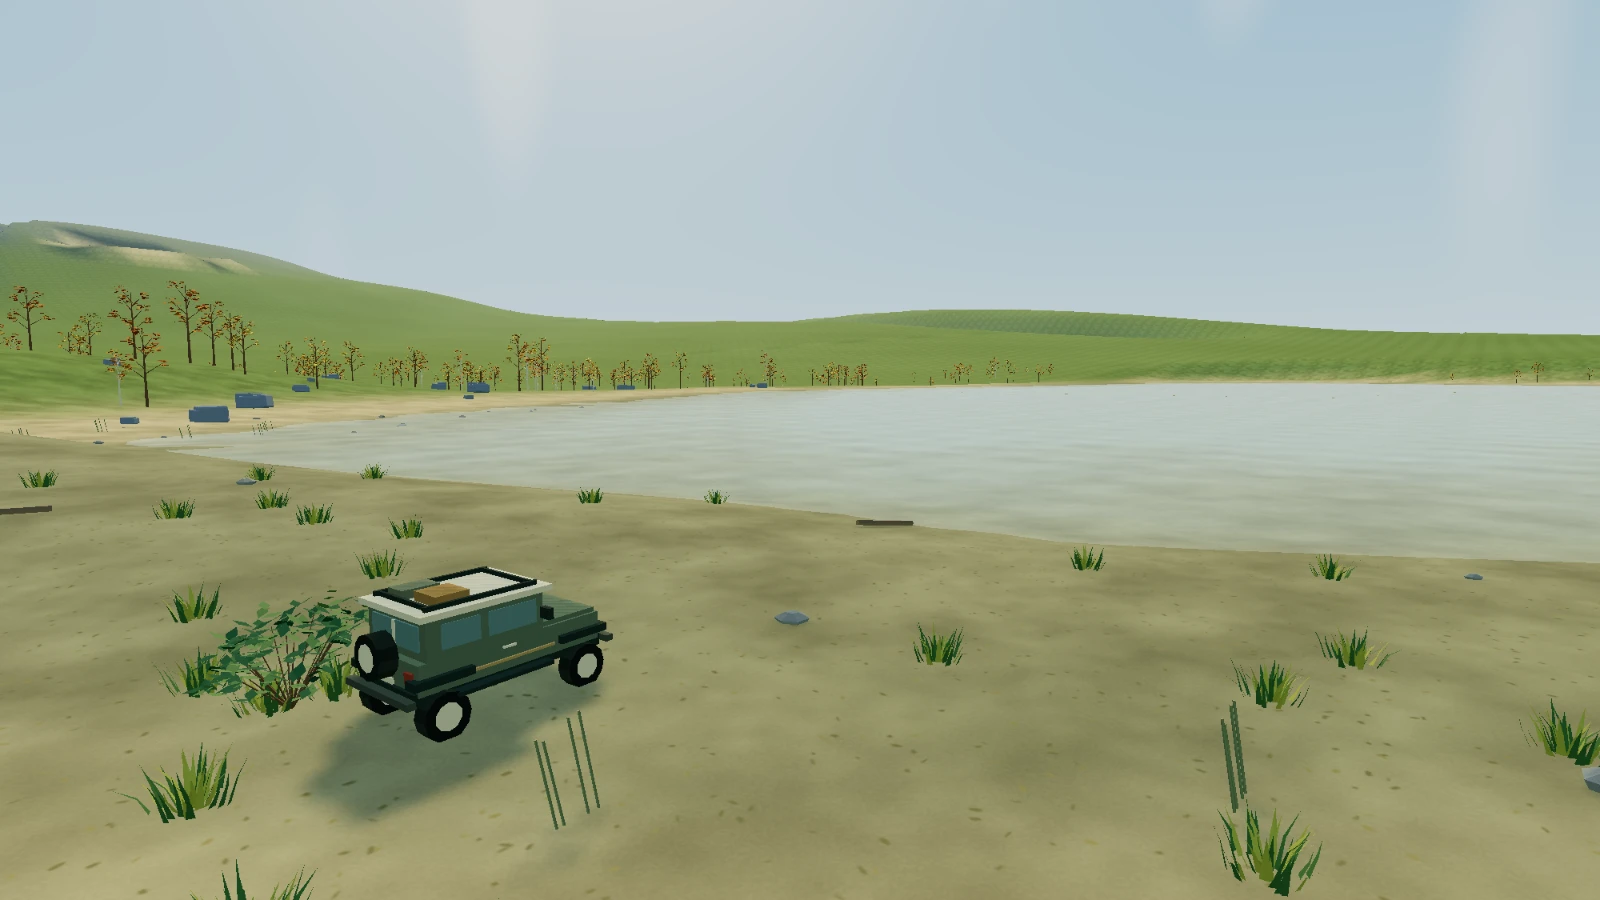
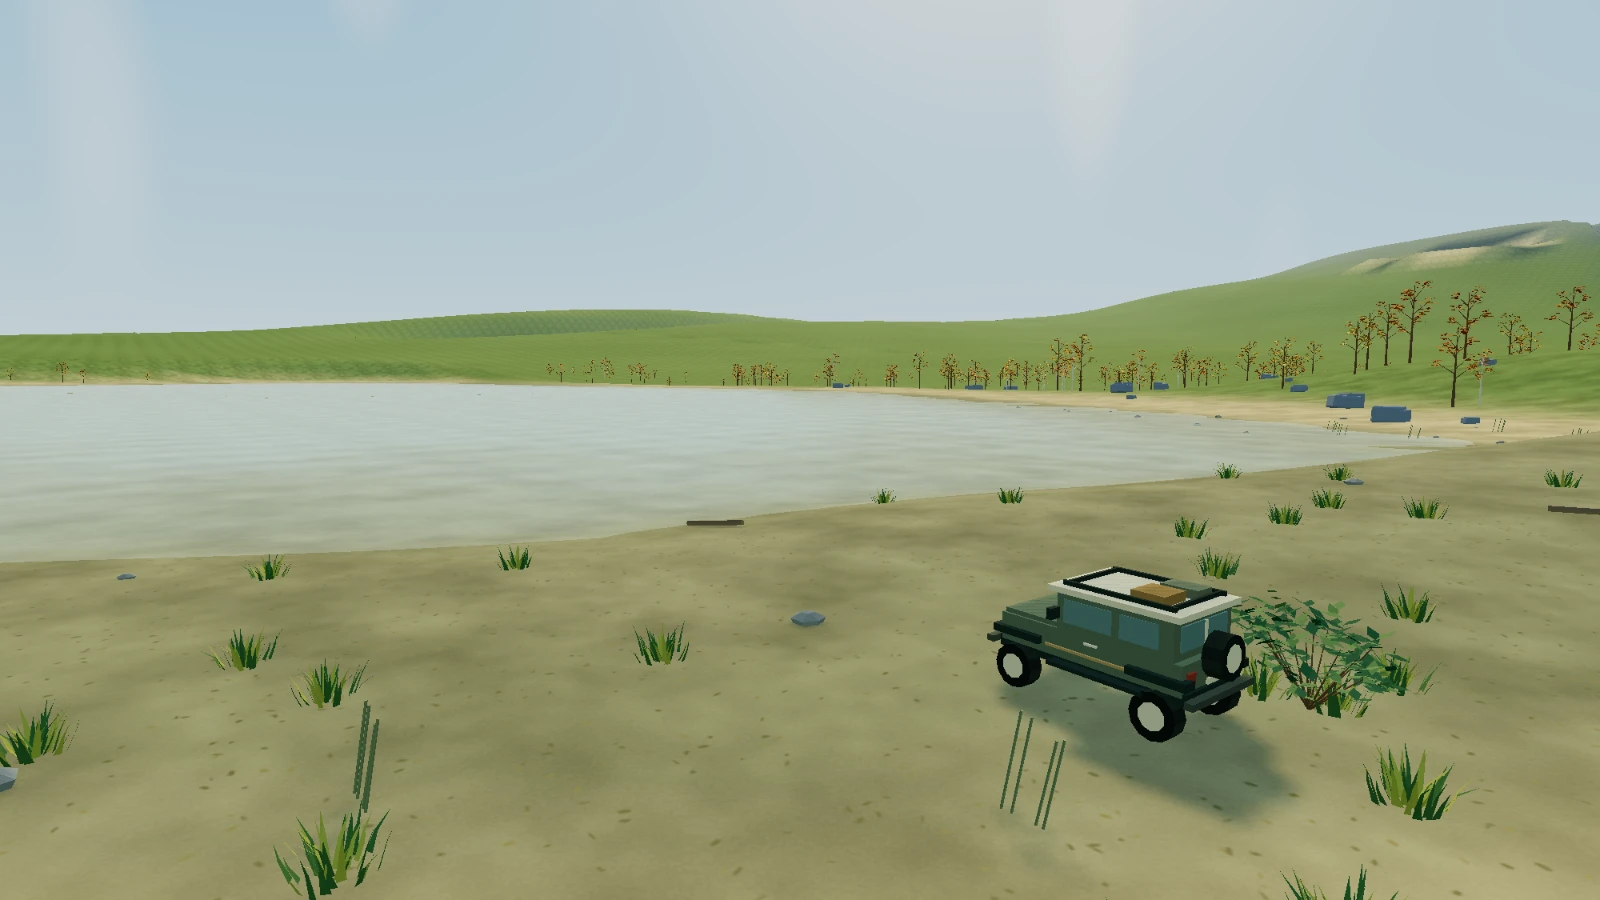
Align rendered steering coordinates and refine close terrain contact

diff --git a/over-the-hill/renderer.js b/over-the-hill/renderer.js
@@ -6,7 +6,7 @@ const {THREE:T,GLTFLoader}=window.HillEngine;let gl;
 try{gl=new T.WebGLRenderer({canvas,antialias:false,alpha:false,powerPreference:'high-performance'});}catch{return null;}
 const context=gl.getContext(),gpuInfo=context.getExtension('WEBGL_debug_renderer_info'),gpuName=gpuInfo?context.getParameter(gpuInfo.UNMASKED_RENDERER_WEBGL):'';const software=/swiftshader|llvmpipe|softpipe/i.test(gpuName);
 gl.outputColorSpace=T.SRGBColorSpace;gl.toneMapping=T.ACESFilmicToneMapping;gl.toneMappingExposure=1.05;gl.shadowMap.enabled=!software;gl.shadowMap.type=T.PCFSoftShadowMap;gl.shadowMap.autoUpdate=false;
-const scene=new T.Scene(),camera=new T.PerspectiveCamera(60,1,.25,12000);scene.fog=new T.FogExp2('#c6d4d0',.00019);
+const scene=new T.Scene();scene.scale.x=-1;const camera=new T.PerspectiveCamera(60,1,.25,12000);scene.fog=new T.FogExp2('#c6d4d0',.00019);
 const hemi=new T.HemisphereLight('#c7e3f3','#82936b',1.8);scene.add(hemi,new T.AmbientLight('#c9d9dc',.5));
 const sun=new T.DirectionalLight('#ffe0a5',2.3);sun.castShadow=true;sun.shadow.mapSize.set(1024,1024);Object.assign(sun.shadow.camera,{left:-75,right:75,top:75,bottom:-75,near:1,far:500});sun.shadow.bias=-.00015;sun.shadow.normalBias=.12;sun.shadow.radius=2;scene.add(sun,sun.target);
 const solid=new T.MeshStandardMaterial({vertexColors:true,roughness:.91,metalness:0,side:T.DoubleSide});
@@ -15,7 +15,7 @@ const terrainMaterial=new T.MeshStandardMaterial({vertexColors:true,roughness:1,
 function groundTexture(){const c=document.createElement('canvas');c.width=c.height=512;const ctx=c.getContext('2d'),image=ctx.createImageData(512,512);const hash=(x,z)=>{const q=Math.sin(x*127.1+z*311.7)*43758.5453;return q-Math.floor(q);};const noise=(x,z,period=8)=>{const hashWrapped=(a,b)=>hash((a+period)%period,(b+period)%period);const a=Math.floor(x),b=Math.floor(z),u=x-a,v=z-b,s=u*u*(3-2*u),t=v*v*(3-2*v);return (hashWrapped(a,b)*(1-s)+hashWrapped(a+1,b)*s)*(1-t)+(hashWrapped(a,b+1)*(1-s)+hashWrapped(a+1,b+1)*s)*t;};for(let y=0;y<512;y++)for(let x=0;x<512;x++){const shade=185+noise(x/64,y/64)*44+noise(x/16,y/16,32)*18+hash(x,y)*12,i=(y*512+x)*4;image.data[i]=image.data[i+1]=image.data[i+2]=shade;image.data[i+3]=255;}ctx.putImageData(image,0,0);for(let i=0;i<520;i++){const x=hash(i,1)*512,y=hash(i,2)*512;ctx.fillStyle=i%3?'#b6b8a1':'#ded7b5';ctx.beginPath();ctx.ellipse(x,y,1+hash(i,3)*2,.5+hash(i,4),hash(i,5)*6.28,0,6.28);ctx.fill();}const texture=new T.CanvasTexture(c);texture.wrapS=texture.wrapT=T.RepeatWrapping;texture.colorSpace=T.SRGBColorSpace;texture.anisotropy=Math.min(4,gl.capabilities.getMaxAnisotropy());return texture;}terrainMaterial.map=groundTexture();
 const modelMaterial=new T.MeshStandardMaterial({vertexColors:true,roughness:.94,side:T.DoubleSide});
 const wind={value:0};modelMaterial.onBeforeCompile=shader=>{shader.uniforms.uWindTime=wind;shader.vertexShader='uniform float uWindTime;attribute float windWeight;\n'+shader.vertexShader;shader.vertexShader=shader.vertexShader.replace('#include <color_vertex>',T.ShaderChunk.color_vertex.replace('vColor.xyz *= instanceColor.xyz;','vColor.xyz *= mix(vec3(1.0),instanceColor.xyz,windWeight);'));shader.vertexShader=shader.vertexShader.replace('#include <begin_vertex>','#include <begin_vertex>\n#ifdef USE_INSTANCING\ntransformed.x+=sin(uWindTime*.8+instanceMatrix[3].x*.21+instanceMatrix[3].z*.13+position.y)*windWeight*.055;\n#endif');};
-const waterMaterial=new T.ShaderMaterial({transparent:true,depthWrite:false,side:T.DoubleSide,uniforms:{time:{value:0}},vertexShader:`attribute float waterDepth;varying vec3 wp;varying float depth;uniform float time;void main(){wp=position;depth=waterDepth;wp.y+=sin(position.x*.15+position.z*.22+time*.7)*.012;gl_Position=projectionMatrix*modelViewMatrix*vec4(wp,1.0);}`,fragmentShader:`precision highp float;uniform float time;varying vec3 wp;varying float depth;void main(){vec3 view=normalize(cameraPosition-wp);vec3 normal=normalize(vec3(sin(wp.x*.7+time*.55)*.035,1.0,cos(wp.z*.8-time*.45)*.035));float fresnel=pow(1.0-max(0.0,dot(view,normal)),4.0);float glint=pow(max(0.0,dot(reflect(-view,normal),normalize(vec3(-.45,.65,.6)))),90.0);vec3 col=mix(vec3(.13,.36,.34),vec3(.27,.54,.51),exp(-depth*.6));col=mix(col,vec3(.55,.73,.82),.18+fresnel*.65);float ripple=sin(wp.x*.35+sin(wp.z*.24)+time*.6)*sin(wp.z*.42-time*.4);col+=glint*.8+max(0.0,ripple-.65)*.08;float shore=(1.0-smoothstep(.01,.16,depth))*(.6+.4*sin(wp.x*2.0+wp.z*1.3-time));col=mix(col,vec3(.79,.85,.73),shore*.5);gl_FragColor=vec4(col,clamp(.22+depth*.25+fresnel*.25,.22,.79));\n#include <tonemapping_fragment>\n#include <colorspace_fragment>\n}`});
+const waterMaterial=new T.ShaderMaterial({transparent:true,depthWrite:false,side:T.DoubleSide,uniforms:{time:{value:0}},vertexShader:`attribute float waterDepth;varying vec3 wp;varying float depth;uniform float time;void main(){vec3 p=position;depth=waterDepth;p.y+=sin(position.x*.15+position.z*.22+time*.7)*.012;wp=(modelMatrix*vec4(p,1.0)).xyz;gl_Position=projectionMatrix*viewMatrix*vec4(wp,1.0);}`,fragmentShader:`precision highp float;uniform float time;varying vec3 wp;varying float depth;void main(){vec3 view=normalize(cameraPosition-wp);vec3 normal=normalize(vec3(sin(wp.x*.7+time*.55)*.035,1.0,cos(wp.z*.8-time*.45)*.035));float fresnel=pow(1.0-max(0.0,dot(view,normal)),4.0);float glint=pow(max(0.0,dot(reflect(-view,normal),normalize(vec3(-.45,.65,.6)))),90.0);vec3 col=mix(vec3(.13,.36,.34),vec3(.27,.54,.51),exp(-depth*.6));col=mix(col,vec3(.55,.73,.82),.18+fresnel*.65);float ripple=sin(wp.x*.35+sin(wp.z*.24)+time*.6)*sin(wp.z*.42-time*.4);col+=glint*.8+max(0.0,ripple-.65)*.08;float shore=(1.0-smoothstep(.01,.16,depth))*(.6+.4*sin(wp.x*2.0+wp.z*1.3-time));col=mix(col,vec3(.79,.85,.73),shore*.5);gl_FragColor=vec4(col,clamp(.22+depth*.25+fresnel*.25,.22,.79));\n#include <tonemapping_fragment>\n#include <colorspace_fragment>\n}`});
 const sky=new T.Mesh(new T.SphereGeometry(8500,24,12),new T.ShaderMaterial({side:T.BackSide,depthWrite:false,uniforms:{time:{value:0}},vertexShader:'varying vec3 direction;void main(){direction=position;gl_Position=projectionMatrix*modelViewMatrix*vec4(position,1.0);}',fragmentShader:`varying vec3 direction;uniform float time;void main(){vec3 d=normalize(direction);float h=max(0.0,d.y);vec3 c=mix(vec3(.53,.65,.66),vec3(.10,.32,.57),pow(h,.45));vec3 sd=normalize(vec3(-.45,.65,.6));float glow=pow(max(0.0,dot(d,sd)),14.0),disc=smoothstep(.9996,.99985,dot(d,sd));c+=vec3(.5,.35,.12)*glow+vec3(2.5,2.1,1.5)*disc;float n=sin(d.x*14.0+d.z*7.0)*sin(d.z*19.0-d.x*5.0)+sin(d.x*32.0+d.z*21.0)*.3;float cloud=smoothstep(.5,1.1,n)*smoothstep(.03,.2,h)*.19;c=mix(c,vec3(.92,.91,.82),cloud);gl_FragColor=vec4(c,1.0);\n#include <tonemapping_fragment>\n#include <colorspace_fragment>\n}`}));sky.renderOrder=-10;sky.frustumCulled=false;scene.add(sky);
 const colorCache=new Map(),modelGeometries=new Map(),batches=new Map(),normalCache=new Map();let worldRef=null,dynamic=[],lastLight=null,frame=0,ready=false,loadError=null;
 function rgb(hex){if(!colorCache.has(hex))colorCache.set(hex,new T.Color(hex));return colorCache.get(hex);}
@@ -27,10 +27,11 @@ api.loaded=new Promise(resolve=>new GLTFLoader().load('nature.glb',gltf=>{for(co
 function addGroup(g){const objects=[],faces=g.faces||[];if(faces.length){const geo=geometry(faces),isGround=faces[0]?.terrain===1,mesh=new T.Mesh(geo,g.water?waterMaterial:isGround?terrainMaterial:solid);mesh.receiveShadow=!g.water;mesh.castShadow=!g.distant&&!g.water&&!isGround;mesh.renderOrder=g.water?3:0;mesh.userData.ownedGeometry=true;objects.push(mesh);scene.add(mesh);}
  const byModel=new Map();for(const item of g.instances||[]){if(!byModel.has(item.model))byModel.set(item.model,[]);byModel.get(item.model).push(item);}const dummy=new T.Object3D();for(const [name,list]of byModel){const geo=modelGeometries.get(name);if(!geo)continue;const mesh=new T.InstancedMesh(geo,modelMaterial,list.length);list.forEach((item,i)=>{dummy.position.set(...item.position);dummy.rotation.set(0,item.rotation||0,0);const scale=item.scale||[1,1,1];dummy.scale.set(...scale);dummy.updateMatrix();mesh.setMatrixAt(i,dummy.matrix);if(item.tint)mesh.setColorAt(i,new T.Color(item.tint));});mesh.instanceMatrix.needsUpdate=true;mesh.computeBoundingSphere();mesh.castShadow=!g.detail&&!g.distant;mesh.receiveShadow=true;mesh.userData.model=name;if(g.detail){mesh.userData.items=list;mesh.userData.detailPosition=null;}objects.push(mesh);scene.add(mesh);}batches.set(g,objects);}
 function sync(groups){const keep=new Set(groups);for(const [g,objects]of batches)if(!keep.has(g)){for(const o of objects){scene.remove(o);if(o.userData.ownedGeometry)o.geometry.dispose();if(o.isInstancedMesh)o.dispose();}batches.delete(g);}for(const g of groups)if(!batches.has(g))addGroup(g);worldRef=groups;}
-api.draw=function(groups,eye,yaw,pitch,width,height,dpr,range,actors=[]){if(!ready)return false;frame++;const pixel=Math.min(dpr,software?.65:1.35);if(gl.getPixelRatio()!==pixel||canvas.width!==Math.floor(width*pixel)||canvas.height!==Math.floor(height*pixel)){gl.setPixelRatio(pixel);gl.setSize(width,height,false);}if(worldRef!==groups)sync(groups);camera.aspect=width/height;camera.fov=T.MathUtils.radToDeg(2*Math.atan(height/(2*Math.min(width,height)*.92)));camera.updateProjectionMatrix();camera.position.set(eye.x,eye.y,eye.z);camera.lookAt(eye.x+Math.sin(yaw)*Math.cos(pitch),eye.y+Math.sin(pitch),eye.z+Math.cos(yaw)*Math.cos(pitch));sky.position.copy(camera.position);wind.value=waterMaterial.uniforms.time.value=performance.now()*.001;
+api.draw=function(groups,eye,yaw,pitch,width,height,dpr,range,actors=[]){if(!ready)return false;frame++;const pixel=Math.min(dpr,software?.65:1.35);if(gl.getPixelRatio()!==pixel||canvas.width!==Math.floor(width*pixel)||canvas.height!==Math.floor(height*pixel)){gl.setPixelRatio(pixel);gl.setSize(width,height,false);}if(worldRef!==groups)sync(groups);camera.aspect=width/height;camera.fov=T.MathUtils.radToDeg(2*Math.atan(height/(2*Math.min(width,height)*.92)));camera.updateProjectionMatrix();camera.position.set(-eye.x,eye.y,eye.z);camera.lookAt(-eye.x-Math.sin(yaw)*Math.cos(pitch),eye.y+Math.sin(pitch),eye.z+Math.cos(yaw)*Math.cos(pitch));sky.position.set(eye.x,eye.y,eye.z);wind.value=waterMaterial.uniforms.time.value=performance.now()*.001;
  const car=actors[0],detailDummy=new T.Object3D();for(const [g,objects]of batches){const distance=Math.hypot(g.x-eye.x,g.z-eye.z),visible=(!g.minDistance||distance>=g.minDistance)&&(g.distant&&!g.vegetation||distance<Math.min(range,g.detail?65:g.vegetation?(software?350:dpr<.7?450:650):range)+(g.r||90));for(const o of objects){o.visible=visible;if(o.isInstancedMesh){const name=o.userData.model;if(o.userData.items){const last=o.userData.detailPosition;if(!last||Math.hypot(eye.x-last.x,eye.z-last.z)>8){let count=0;const radius=name==='grass'?(software?30:dpr<.7?38:52):software?55:70;for(const item of o.userData.items){if(Math.hypot(item.position[0]-eye.x,item.position[2]-eye.z)>radius)continue;detailDummy.position.set(...item.position);detailDummy.rotation.set(0,item.rotation||0,0);detailDummy.scale.set(...item.scale);detailDummy.updateMatrix();o.setMatrixAt(count++,detailDummy.matrix);}o.count=count;o.instanceMatrix.needsUpdate=true;o.computeBoundingSphere();o.userData.detailPosition={x:eye.x,z:eye.z};}o.visible=visible&&o.count>0;}if(['oak','birch','pine'].includes(name)){const use=distance>(software?70:dpr<.7?90:150)?name+'_low':name;o.geometry=modelGeometries.get(use);}o.castShadow=visible&&!g.detail&&!g.distant&&distance<160;}}}
  for(let i=0;i<actors.length;i++){const geo=geometry(actors[i].faces);if(!dynamic[i]){dynamic[i]=new T.Mesh(geo,solid);dynamic[i].castShadow=true;dynamic[i].receiveShadow=true;scene.add(dynamic[i]);}else{dynamic[i].geometry.dispose();dynamic[i].geometry=geo;}dynamic[i].visible=true;}for(let i=actors.length;i<dynamic.length;i++)dynamic[i].visible=false;
  if(car&&(!lastLight||frame%8===0&&Math.hypot(car.x-lastLight.x,car.z-lastLight.z)>1)){const x=Math.round(car.x/4)*4,z=Math.round(car.z/4)*4,y=car.y||0;sun.position.set(x-120,y+145,z+120);sun.target.position.set(x,y,z);sun.target.updateMatrixWorld();lastLight={x:car.x,z:car.z};gl.shadowMap.needsUpdate=true;}
  gl.render(scene,camera);api.stats.draws=gl.info.render.calls;api.stats.triangles=gl.info.render.triangles;return gl.info.render.triangles;};
+api.projectWorld=p=>new T.Vector3(-p.x,p.y,p.z).project(camera);
 return api;
 };

diff --git a/over-the-hill/world.js b/over-the-hill/world.js
@@ -104,8 +104,8 @@ function makeWater(cx,cz,step=8){const g=group(cx*128+64,cz*128+64,92);g.water=t
 const horizon=[];let horizonIndex=0,horizonCombined=null;
 function distantTerrain(){if(horizonIndex>=16*16)return;const i=horizonIndex++,x=-4096+(i%16)*512,z=-2048+Math.floor(i/16)*512,g=group(x+256,z+256,365);g.distant=true;for(let a=0;a<512;a+=64)for(let b=0;b<512;b+=64){const point=(u,v)=>[u,height(u,v)-5,v],aa=point(x+a,z+b),bb=point(x+a+64,z+b),cc=point(x+a+64,z+b+64),dd=point(x+a,z+b+64);terrainFace(g,[aa,bb,cc]);terrainFace(g,[aa,cc,dd]);}horizon.push(g);}
 const chunks=new Map();let active=[],streamKey='',pending=[];const stats={chunks:0,pending:0,vertices:0};
-function stream(x,z,quality=1){const cx=Math.floor(x/128),cz=Math.floor(z/128),key=cx+','+cz+','+quality,far=[7,10,13][quality],near=[1.5,2,3][quality];if(key!==streamKey){streamKey=key;const wanted=new Map();for(let a=cx-far;a<=cx+far;a++)for(let b=cz-far;b<=cz+far;b++){const d=Math.hypot(a-cx,b-cz);if(d>far||a*128<-4096||a*128>4096||b*128<-2048||b*128>6144)continue;const lod=d<=near?8:32;wanted.set(a+','+b+','+lod,{a,b,lod,d});}for(const k of chunks.keys())if(!wanted.has(k))chunks.delete(k);pending=[...wanted.entries()].filter(([k])=>!chunks.has(k)).sort((a,b)=>a[1].d-b[1].d);}
- const start=performance.now();let changed=false;if(horizonIndex===0){while(horizonIndex<256)distantTerrain();horizonCombined=group(0,2048,6500);horizonCombined.distant=true;horizonCombined.faces=horizon.flatMap(g=>g.faces);changed=true;}while(pending.length&&(performance.now()-start<7||!active.length)){const [k,p]=pending.shift(),list=[makeTerrain(p.a,p.b,p.lod),makeWater(p.a,p.b,p.lod===8?4:16)];if(p.lod===8)list.push(...makeScenery(p.a,p.b));else list.push(distantGroves(p.a,p.b));chunks.set(k,list);changed=true;}if(changed||stats.chunks!==chunks.size)active=[horizonCombined,...[...chunks.values()].flat()].filter(Boolean);stats.chunks=chunks.size;stats.pending=pending.length+256-horizonIndex;return active;}
+function stream(x,z,quality=1){const cx=Math.floor(x/128),cz=Math.floor(z/128),key=cx+','+cz+','+quality,far=[7,10,13][quality],near=[1.5,2,3][quality];if(key!==streamKey){streamKey=key;const wanted=new Map();for(let a=cx-far;a<=cx+far;a++)for(let b=cz-far;b<=cz+far;b++){const d=Math.hypot(a-cx,b-cz);if(d>far||a*128<-4096||a*128>4096||b*128<-2048||b*128>6144)continue;const lod=d<=near?4:32;wanted.set(a+','+b+','+lod,{a,b,lod,d});}for(const k of chunks.keys())if(!wanted.has(k))chunks.delete(k);pending=[...wanted.entries()].filter(([k])=>!chunks.has(k)).sort((a,b)=>a[1].d-b[1].d);}
+ const start=performance.now();let changed=false;if(horizonIndex===0){while(horizonIndex<256)distantTerrain();horizonCombined=group(0,2048,6500);horizonCombined.distant=true;horizonCombined.faces=horizon.flatMap(g=>g.faces);changed=true;}while(pending.length&&(performance.now()-start<7||!active.length)){const [k,p]=pending.shift(),list=[makeTerrain(p.a,p.b,p.lod),makeWater(p.a,p.b,p.lod===4?4:16)];if(p.lod===4)list.push(...makeScenery(p.a,p.b));else list.push(distantGroves(p.a,p.b));chunks.set(k,list);changed=true;}if(changed||stats.chunks!==chunks.size)active=[horizonCombined,...[...chunks.values()].flat()].filter(Boolean);stats.chunks=chunks.size;stats.pending=pending.length+256-horizonIndex;return active;}
 const marks=[],lastMarks=new Map();
 function effects(vehicles,now){const g=group(vehicles[0].x,vehicles[0].z,100);for(let i=0;i<vehicles.length;i++){const s=vehicles[i],key=s.effectId||i,prev=lastMarks.get(key);if(!prev||Math.hypot(s.x-prev.x,s.z-prev.z)>.85){lastMarks.set(key,{x:s.x,z:s.z});if(Math.hypot(s.x-vehicles[0].x,s.z-vehicles[0].z)<220&&Math.abs(s.speed)>.4)for(const w of s.wheels){const t=surface(w.x,w.z);if(t.depth>.03||t.sand>.2)marks.push({x:w.x,z:w.z,y:t.depth>.03?t.level+.055:height(w.x,w.z)+.045,water:t.depth>.03,heading:s.heading,speed:Math.abs(s.speed),born:now});}}}while(marks.length>180)marks.shift();while(marks.length&&now-marks[0].born>9)marks.shift();for(const m of marks){const age=now-m.born;if(m.water){if(age>2.6)continue;const r=.22+age*.75,fade=1-age/2.6,c=shade('#c1d4bf',.8+.2*fade);for(let k=0;k<12;k++){const a=k*Math.PI/6,b=(k+1)*Math.PI/6;face(g,[[m.x+Math.cos(a)*r,m.y,m.z+Math.sin(a)*r],[m.x+Math.cos(b)*r,m.y,m.z+Math.sin(b)*r],[m.x+Math.cos(b)*(r+.045*fade),m.y,m.z+Math.sin(b)*(r+.045*fade)],[m.x+Math.cos(a)*(r+.045*fade),m.y,m.z+Math.sin(a)*(r+.045*fade)]],c);}if(age<.5&&m.speed>2)for(let k=0;k<3;k++){const a=m.heading+(k-1)*1.4,rr=age*m.speed*.16,y=m.y+Math.sin(age*Math.PI*2)*Math.min(.6,m.speed*.07);box(g,m.x+Math.sin(a)*rr,y,m.z+Math.cos(a)*rr,.06,.09,.06,'#c6dfce');}}else{const sn=Math.sin(m.heading),cs=Math.cos(m.heading),points=[[-.16,-.4],[.16,-.4],[.16,.4],[-.16,.4]].map(([x,z])=>{const xx=m.x+x*cs+z*sn,zz=m.z+z*cs-x*sn;return[xx,height(xx,zz)+.045,zz];});g.faces.push({points,color:'#9e9675',terrain:1,vertexColors:points.map(p=>terrainColor(p[0],p[2]).map(v=>v*(.8+.2*age/9)))});}}return g;}
 function vehicle(s,variant=0){const g=group(s.x,s.z,6),cream='#ece3bd',green=['#718268','#9a8058','#768c88'][variant%3],dark='#34463e',glass='#76958e';

diff --git a/over-the-hill/README.md b/over-the-hill/README.md
@@ -109,7 +109,7 @@ All five new suites passed against the local build. The two-client suite also ex
 
 See `docs/ashen-vale-geography.md` for the authored regional plan. The geographic bounds cover 64 km²; the deliberate content consists of the connected 30 km road network and 26 landmark clusters, with deterministic wilderness dressing between them. This is finite terrain, not an infinite generator. All first-time sessions start at (0,0), north-facing. Existing reconnect identities, positions, discovery indices and Garage saves are retained.
 
-The client streams 128 m cells with 8 m near terrain and 32 m distant terrain, plus a coarse full-watershed horizon. Shared-coordinate colors and gradient lighting avoid triangle color seams. Near scenery is batched per cell; lighter distant groves fill the middle distance. GPU buffers and collision caches are bounded and discarded outside the active area. Graphics settings control distance and detail; resolution adapts to frame time.
+The client streams 128 m cells with 4 m near terrain and 32 m distant terrain, plus a coarse full-watershed horizon. Shared-coordinate colors and gradient lighting avoid triangle color seams. Near scenery is batched per cell; lighter distant groves fill the middle distance. GPU buffers and collision caches are bounded and discarded outside the active area. Graphics settings control distance and detail; resolution adapts to frame time.
 
 Stillwater, Mirrorfen, Southwind Mere, Alder Pool and the Three Sisters tarn have authored irregular shorelines, graded sand banks and shallow beds. The Alder River descends south, with a timber crossing and a rock cascade. Water uses depth-based transparency, animated highlights, a cheap sky-reflection approximation and shoreline foam. It does not render ray-traced or full scene reflections.
 
@@ -129,4 +129,4 @@ Open `over-the-hill/nature.blend` in Blender. Rebuild the source scene and runti
 
 The new renderer loaded all 11 original models without WebGL or page errors at seven inspected locations. The long route, water, two-client Worker-preview, keyboard/touch and offline suites passed. Network heartbeats and control changes are independent of drawing; fixed-step driving catches up through slow frames.
 
-Headless Chromium uses CPU SwiftShader here. The detailed scene was slow (about 2–5 FPS), so known software renderers automatically disable shadow maps, shorten foliage distance and use lighter tree models. The final spawn check in that fallback drew about 184,000 triangles in 153 calls at roughly 6.7 FPS. These are software-rendering measurements, not physical Chromebook results; hardware profiling and full multiplayer capacity testing remain outstanding. Hardware rendering retains the soft shadows and fuller model detail. Promotional captures use that high-quality preset in the software browser and are not performance benchmarks.
+Headless Chromium uses CPU SwiftShader here. The detailed scene was slow (about 2–5 FPS), so known software renderers automatically disable shadow maps, shorten foliage distance and use lighter tree models. The final spawn check in that fallback drew about 197,000 triangles in 153 calls at roughly 6.5 FPS. These are software-rendering measurements, not physical Chromebook results; hardware profiling and full multiplayer capacity testing remain outstanding. Hardware rendering retains the soft shadows and fuller model detail. Promotional captures use that high-quality preset in the software browser and are not performance benchmarks.

diff --git a/docs/ashen-vale-geography.md b/docs/ashen-vale-geography.md
@@ -10,6 +10,6 @@ The main expedition loop runs north from the trailhead, through Copperwood and F
 
 ## Rendering contract
 
-128 m spatial cells contain a continuous shared-coordinate terrain mesh. Near cells use 8 m samples; distant cells use 32 m samples and skirts. Near foliage and structure batches load independently from terrain. The client retains bounded spatial caches and uploads only changed batches. Terrain color and smooth gradient lighting are evaluated in world coordinates. All vegetation collision candidates use the same fixed coordinate hash on server and client.
+128 m spatial cells contain a continuous shared-coordinate terrain mesh. Near cells use 4 m samples; distant cells use 32 m samples and skirts. Near foliage and structure batches load independently from terrain. The client retains bounded spatial caches and uploads only changed batches. Terrain color and smooth gradient lighting are evaluated in world coordinates. All vegetation collision candidates use the same fixed coordinate hash on server and client.
 
 The 64 km² figure is geographic bounds, not a claim that every hectare has authored detail. Scenic routes and landmark clusters are the deliberate content spine; wilderness between them uses deterministic dressing. Performance on physical school Chromebooks still requires device testing.

diff --git a/docs/watershed-validation.md b/docs/watershed-validation.md
@@ -13,4 +13,4 @@ Headless Chromium used CPU-based SwiftShader: approximately 13–38 FPS across t
 
 All 11 model roots and their real vertex/normal data were checked in the GLB; the editable Blender source was validated. Seven locations and ~6.7 km of browser driving passed with the new Three.js renderer. The same two-client Worker-preview and offline suites passed again after moving the network heartbeat out of the rendering loop.
 
-The full-detail CPU-rendered scene was slow (2–5 FPS). The final software fallback reduced the spawn scene to 184,031 triangles / 153 draw calls, measured at roughly 6.7 FPS. No claim of smooth Chromebook hardware performance is made. Actual hardware and 24-player load profiling remain unverified.
+The full-detail CPU-rendered scene was slow (2–5 FPS). The final software fallback reduced the spawn scene to 197,343 triangles / 153 draw calls, measured at roughly 6.5 FPS. No claim of smooth Chromebook hardware performance is made. Actual hardware and 24-player load profiling remain unverified.
